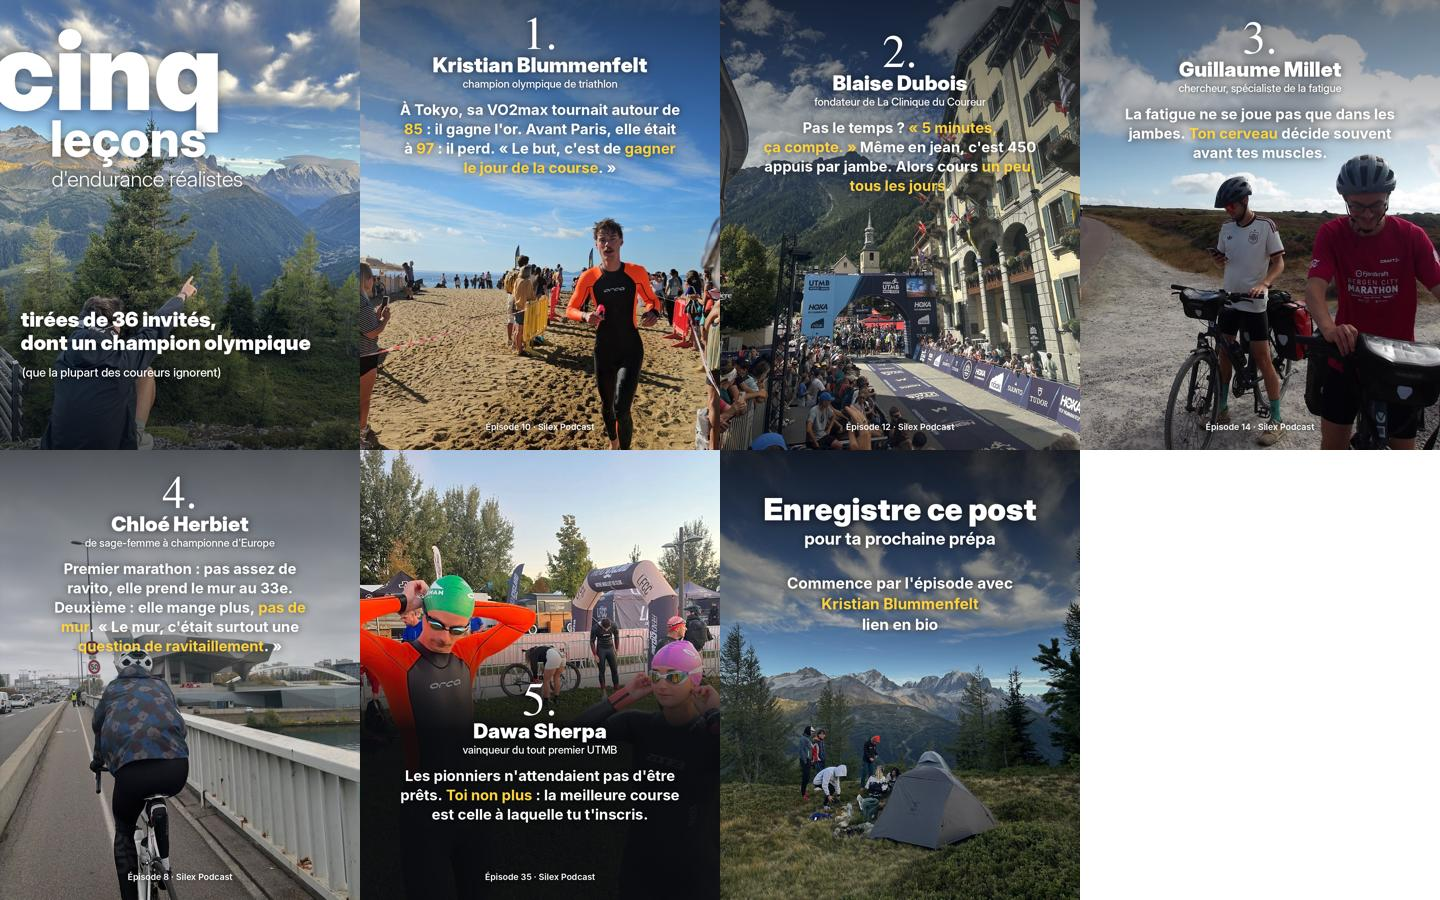
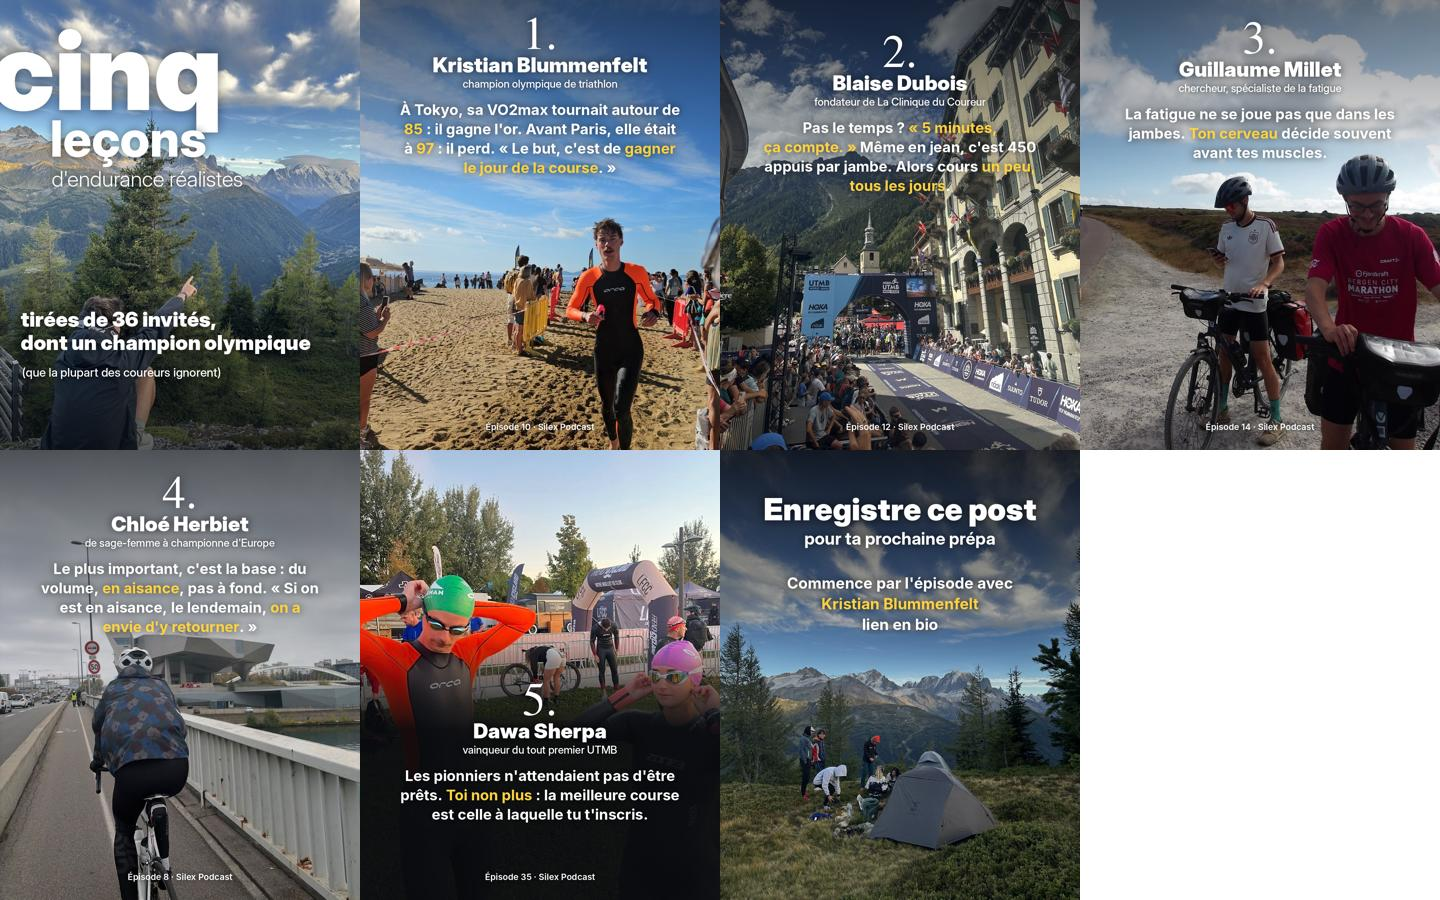
Carrousel Silex : nouvelle leçon Chloé Herbiet (la base en aisance)
Claude-Session: https://claude.ai/code/session_01Bwd8fxM92NWrr3aL1Qd296

Changed region(s): [[0.0312, 0.6222, 0.2188, 0.7467]]

diff --git a/carrousel-silex/make.py b/carrousel-silex/make.py
@@ -162,7 +162,7 @@ SLIDES = [
      'credit': 'Épisode 14 · Silex Podcast'},
     {'photo': 'velo-lyon', 'n': 4, 'y': 0.04, 'shade': (0.5, 170),
      'name': 'Chloé Herbiet', 'role': "de sage-femme à championne d'Europe",
-     'text': "Premier marathon : pas assez de ravito, elle prend le mur au 33e. Deuxième : elle mange plus, **pas de mur**. « Le mur, c'était surtout une **question de ravitaillement**. »",
+     'text': "Le plus important, c'est la base : du volume, **en aisance**, pas à fond. « Si on est en aisance, le lendemain, **on a envie d'y retourner**.\u00a0»",
      'credit': 'Épisode 8 · Silex Podcast'},
     {'photo': 'avant-depart', 'fx': 0.53, 'fy': 0.55, 'zoom': 1.15, 'n': 5, 'bottom': True, 'y': 0.50,
      'shade_start': 0.40, 'shade_full': 0.62,

diff --git a/carrousel-silex/legende.md b/carrousel-silex/legende.md
@@ -11,7 +11,7 @@ Et ce qui revient le plus souvent, ce n'est pas un plan d'entraînement secret :
 1. La VO2max ne gagne pas les courses (@[Kristian Blummenfelt])
 2. 5 minutes de course, ça compte (@[Blaise Dubois])
 3. La fatigue se joue aussi dans la tête (@[Guillaume Millet])
-4. Le mur, c'est surtout une question de ravito (@[Chloé Herbiet])
+4. Construis ta base en aisance, pas à fond (@[Chloé Herbiet])
 5. N'attends pas d'être prêt (@[Dawa Sherpa])
 
 💬 Écris SILEX en commentaire et je t'envoie l'épisode avec Kristian Blummenfelt.
@@ -35,6 +35,6 @@ Ces textes ont été écrits sans accès aux transcriptions. Vérifie que chacun
 - ✅ Slide 2 · Kristian Blummenfelt : validé avec la transcription (14:28–15:32, VO2max ~85 à Tokyo, 97 avant Paris).
 - ✅ Slide 3 · Blaise Dubois : validé avec la transcription (39:23–40:32, « 5 minutes, ça compte », 450 appuis par jambe à ~180 pas/min — Blaise dit 900, chiffre corrigé, stress quotidien).
 - [À VALIDER] Slide 4 · Guillaume Millet : « Ton cerveau décide souvent avant tes muscles. »
-- ✅ Slide 5 · Chloé Herbiet : validé avec la transcription (32:34–33:15, mur au 33-34e au 1er marathon faute d'alimentation, pas de mur au 2e). L'ancienne leçon « un vrai boulot n'empêche pas d'aller loin » était contredite par l'interview : retirée.
+- ✅ Slide 5 · Chloé Herbiet : validé avec la transcription (33:28–34:00, « le plus important c'est la base », courir en aisance, « le lendemain on a envie d'y retourner »). L'ancienne leçon « un vrai boulot n'empêche pas d'aller loin » était contredite par l'interview : retirée.
 - [À VALIDER] Slide 6 · Dawa Sherpa : « Les pionniers n'attendaient pas d'être prêts. »
 - Les numéros d'épisode (10, 12, 14, 8, 35) viennent des miniatures YouTube.
